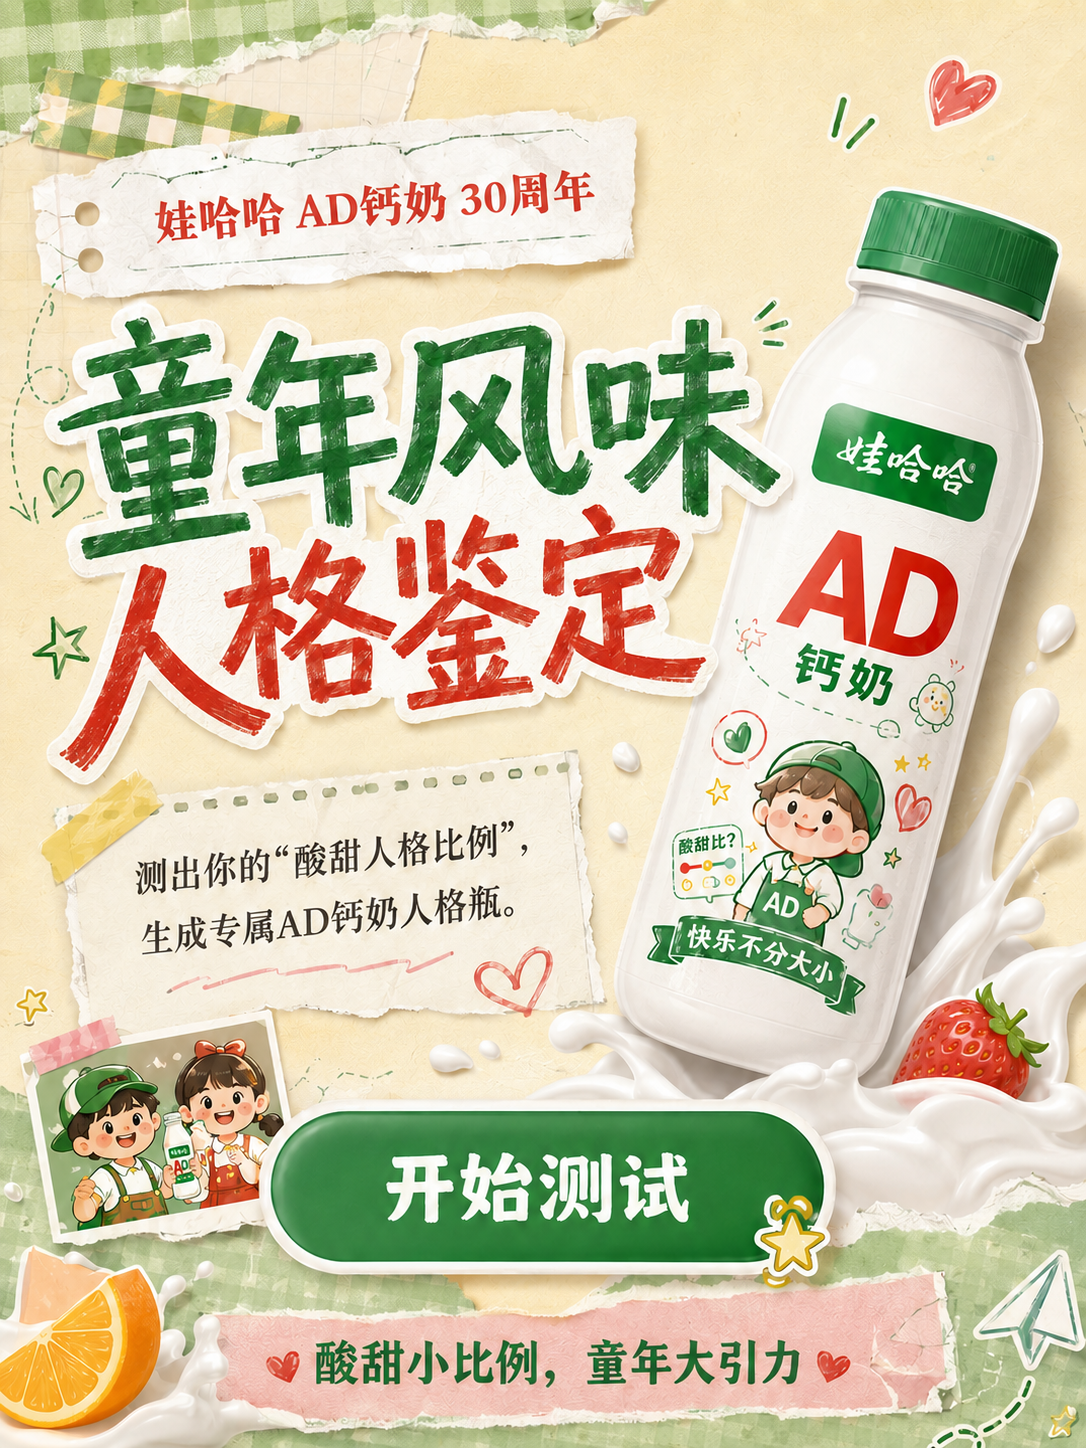
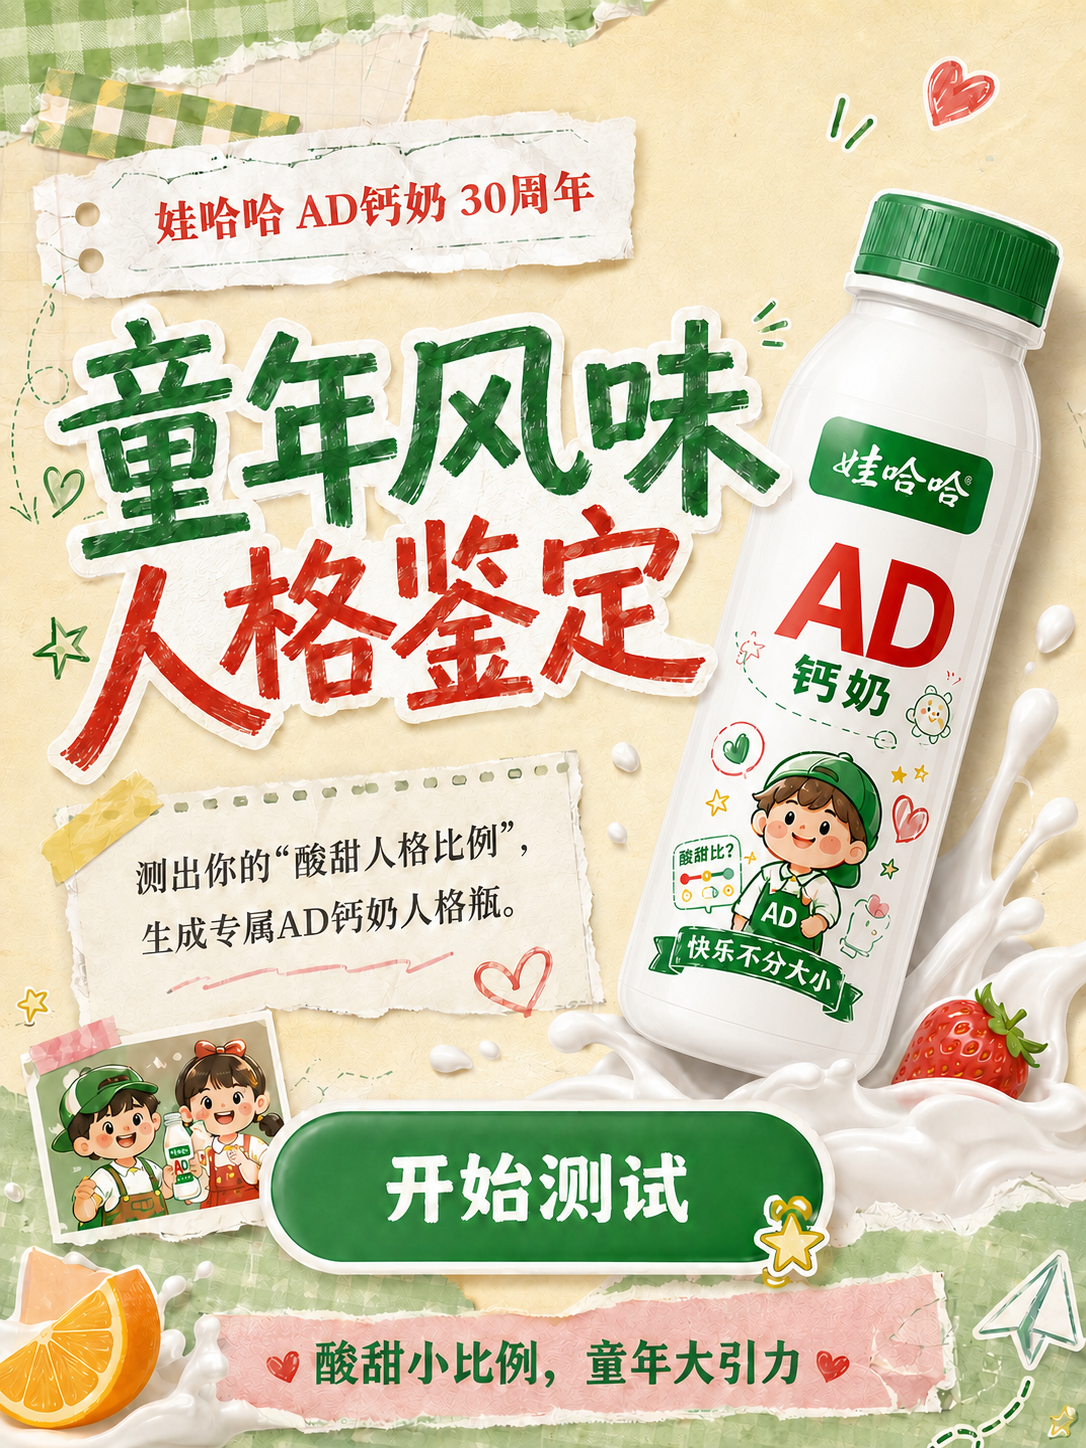
Make cover poster fully clickable

diff --git a/style.css b/style.css
@@ -97,7 +97,7 @@ button { border: 0; cursor: pointer; }
   color: #251f1b;
 }
 .screen-cover {
-  min-height: 100svh;
+  min-height: 0;
   padding: 0;
   background: #f7e5bd;
   align-items: center;
@@ -110,14 +110,14 @@ button { border: 0; cursor: pointer; }
 .cover-frame {
   position: relative;
   width: 100%;
-  min-height: 100svh;
+  aspect-ratio: 1086 / 1448;
   flex: 0 0 auto;
   overflow: hidden;
 }
 .cover-fill {
   position: absolute;
   inset: 0;
-  background-image: linear-gradient(rgba(247,229,189,.34), rgba(247,229,189,.44)), url("./assets/cover_poster.png");
+  background-image: linear-gradient(rgba(247,229,189,.34), rgba(247,229,189,.44)), url("./assets/cover_poster.png?v=cover-bottle-2");
   background-size: cover;
   background-position: center top;
   filter: blur(12px) saturate(.96);
@@ -135,16 +135,14 @@ button { border: 0; cursor: pointer; }
 }
 .cover-start-hit {
   position: absolute;
-  left: 20%;
-  top: 75%;
-  width: 60%;
-  height: 8%;
+  inset: 0;
   z-index: 2;
   border: 0;
-  border-radius: 999px;
+  border-radius: 0;
   background: transparent;
   color: transparent;
   box-shadow: none;
+  cursor: pointer;
 }
 .cover-start-hit:focus-visible {
   outline: 3px solid rgba(24,141,69,.55);
@@ -355,6 +353,5 @@ button { border: 0; cursor: pointer; }
 @media (min-width: 431px) {
   .phone-shell { min-height: 860px; border-radius: 34px; }
   .screen { min-height: 860px; }
-  .screen-cover,
-  .cover-frame { min-height: 860px; }
+  .screen-cover { min-height: 0; }
 }

diff --git a/index.html b/index.html
@@ -13,7 +13,7 @@
     <section class="screen screen-cover is-active" data-screen="cover">
       <div class="cover-frame">
         <div class="cover-fill" aria-hidden="true"></div>
-        <img class="cover-poster" src="./assets/cover_poster.png" alt="娃哈哈AD钙奶30周年童年风味人格鉴定封面" />
+        <img class="cover-poster" src="./assets/cover_poster.png?v=cover-bottle-2" alt="娃哈哈AD钙奶30周年童年风味人格鉴定封面" />
         <button class="cover-start-hit" id="startBtn" aria-label="开始测试">开始测试</button>
       </div>
     </section>
